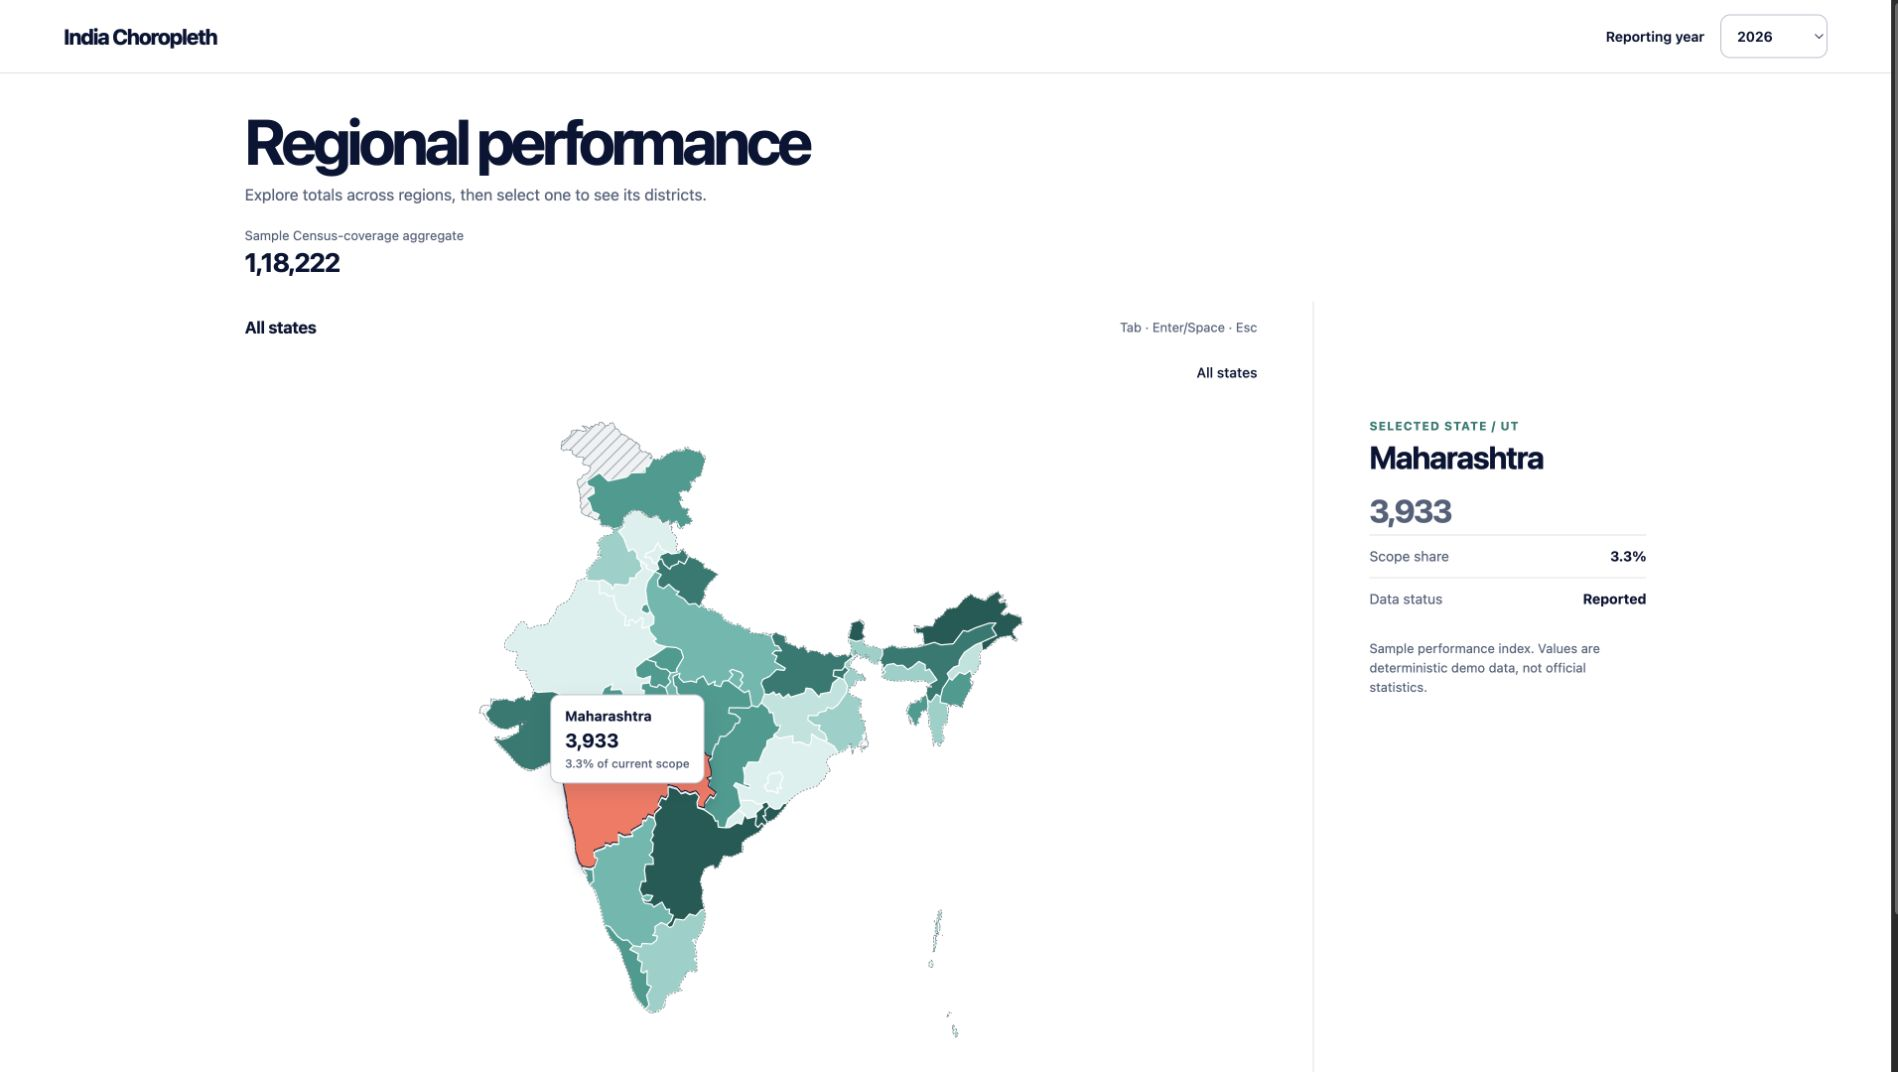
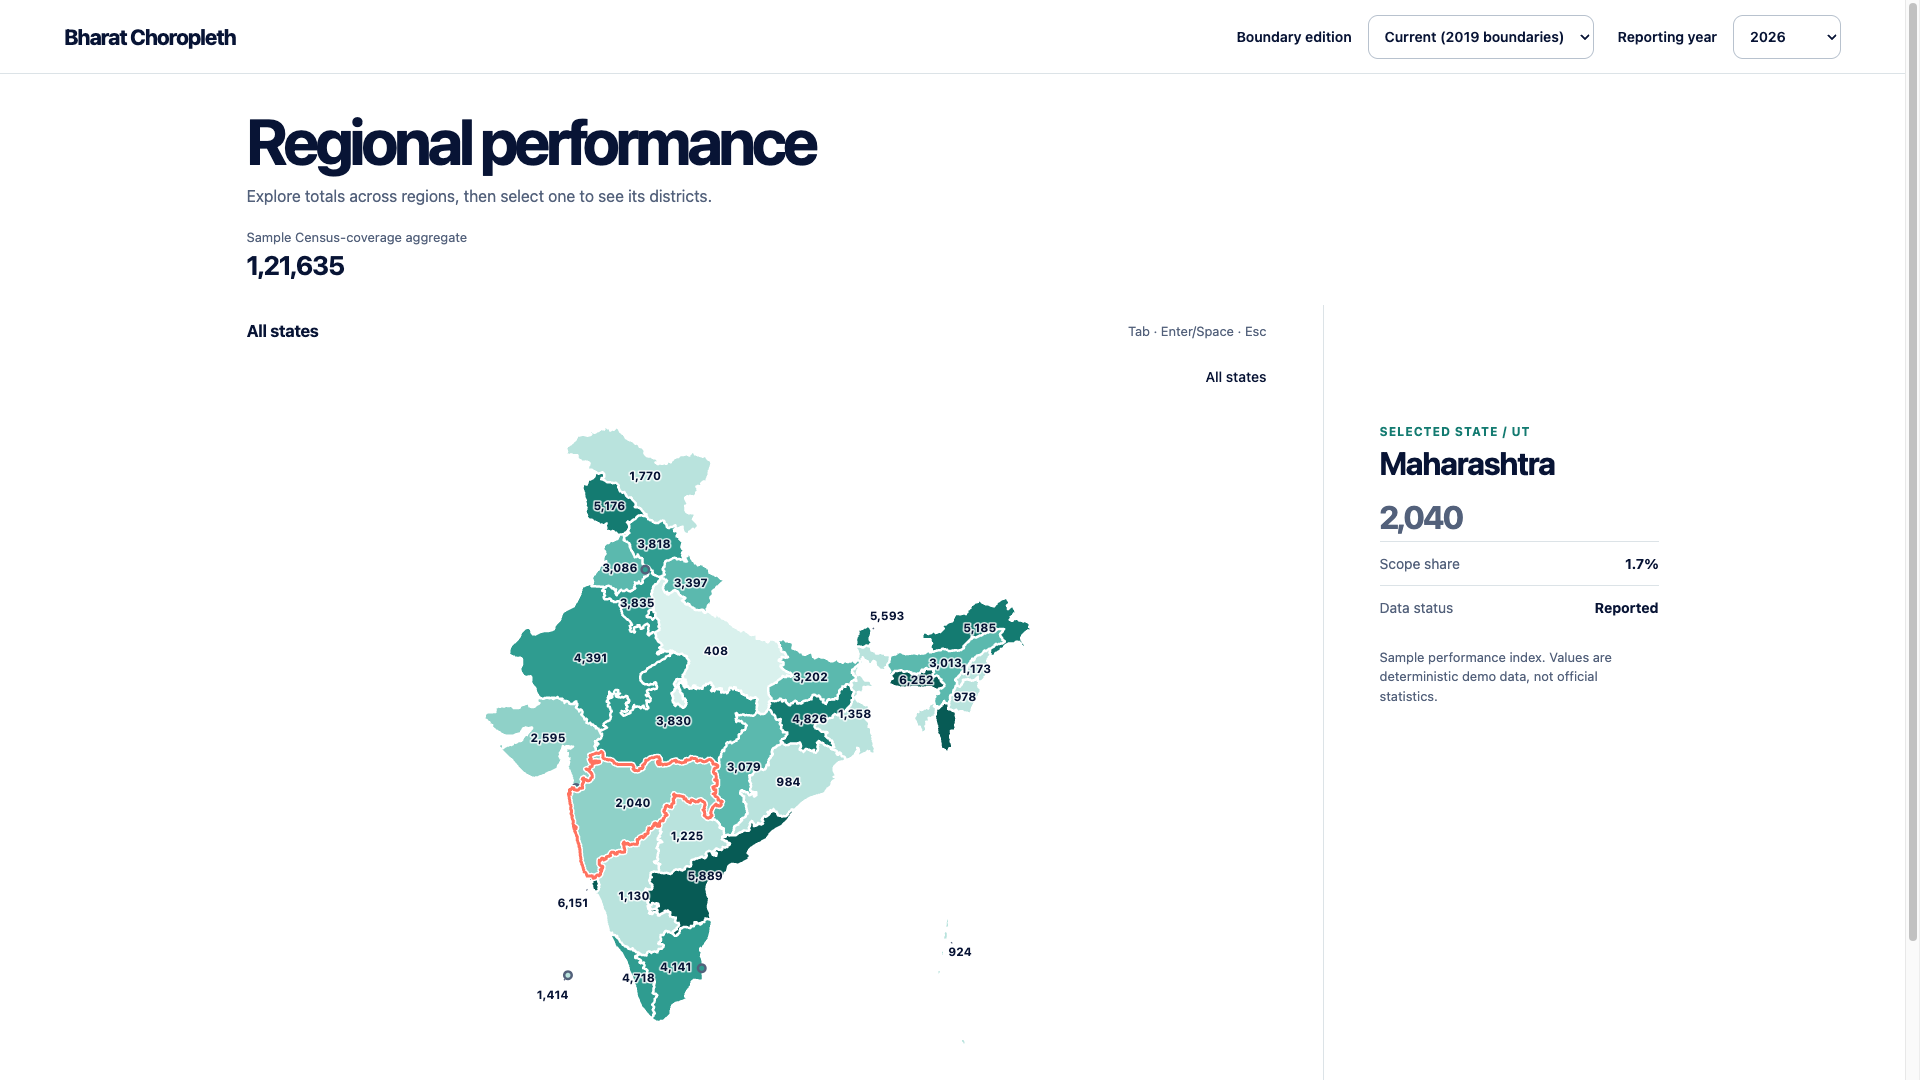
docs: refresh README screenshots for 2019 boundaries

diff --git a/README.md b/README.md
@@ -4,21 +4,21 @@
 
 The package turns a state GeoJSON/TopoJSON layer into an accessible SVG map, then loads a selected state's district layer on demand. It follows the approved Atlas UX: hover/focus inspection, activation/drill-down, a breadcrumb return, optional legend and host-owned insight content. The legend also filters — picking a swatch highlights the regions painted in it and dulls the rest, picked again or Escape to clear.
 
-![Bharat Choropleth reference dashboard](./previews/country-full-claimed-outline-desktop.png)
+![Bharat Choropleth current 2019-boundary dashboard](./previews/country-full-claimed-outline-desktop.png)
 
 ## Examples
 
 ### National view
 
-![National state and union-territory choropleth](./previews/country-desktop.png)
+![National state and union-territory choropleth using the current 2019 boundaries](./previews/country-desktop.png)
 
 ### District drill-down
 
-![Maharashtra district choropleth drill-down](./previews/maharashtra-districts-desktop.png)
+![Maharashtra district choropleth drill-down using the current 2019 boundaries](./previews/maharashtra-districts-desktop.png)
 
 ### Responsive layout
 
-![Mobile national choropleth view](./previews/country-mobile.png)
+![Mobile national choropleth view using the current 2019 boundaries](./previews/country-mobile.png)
 
 ## Package layout
 
